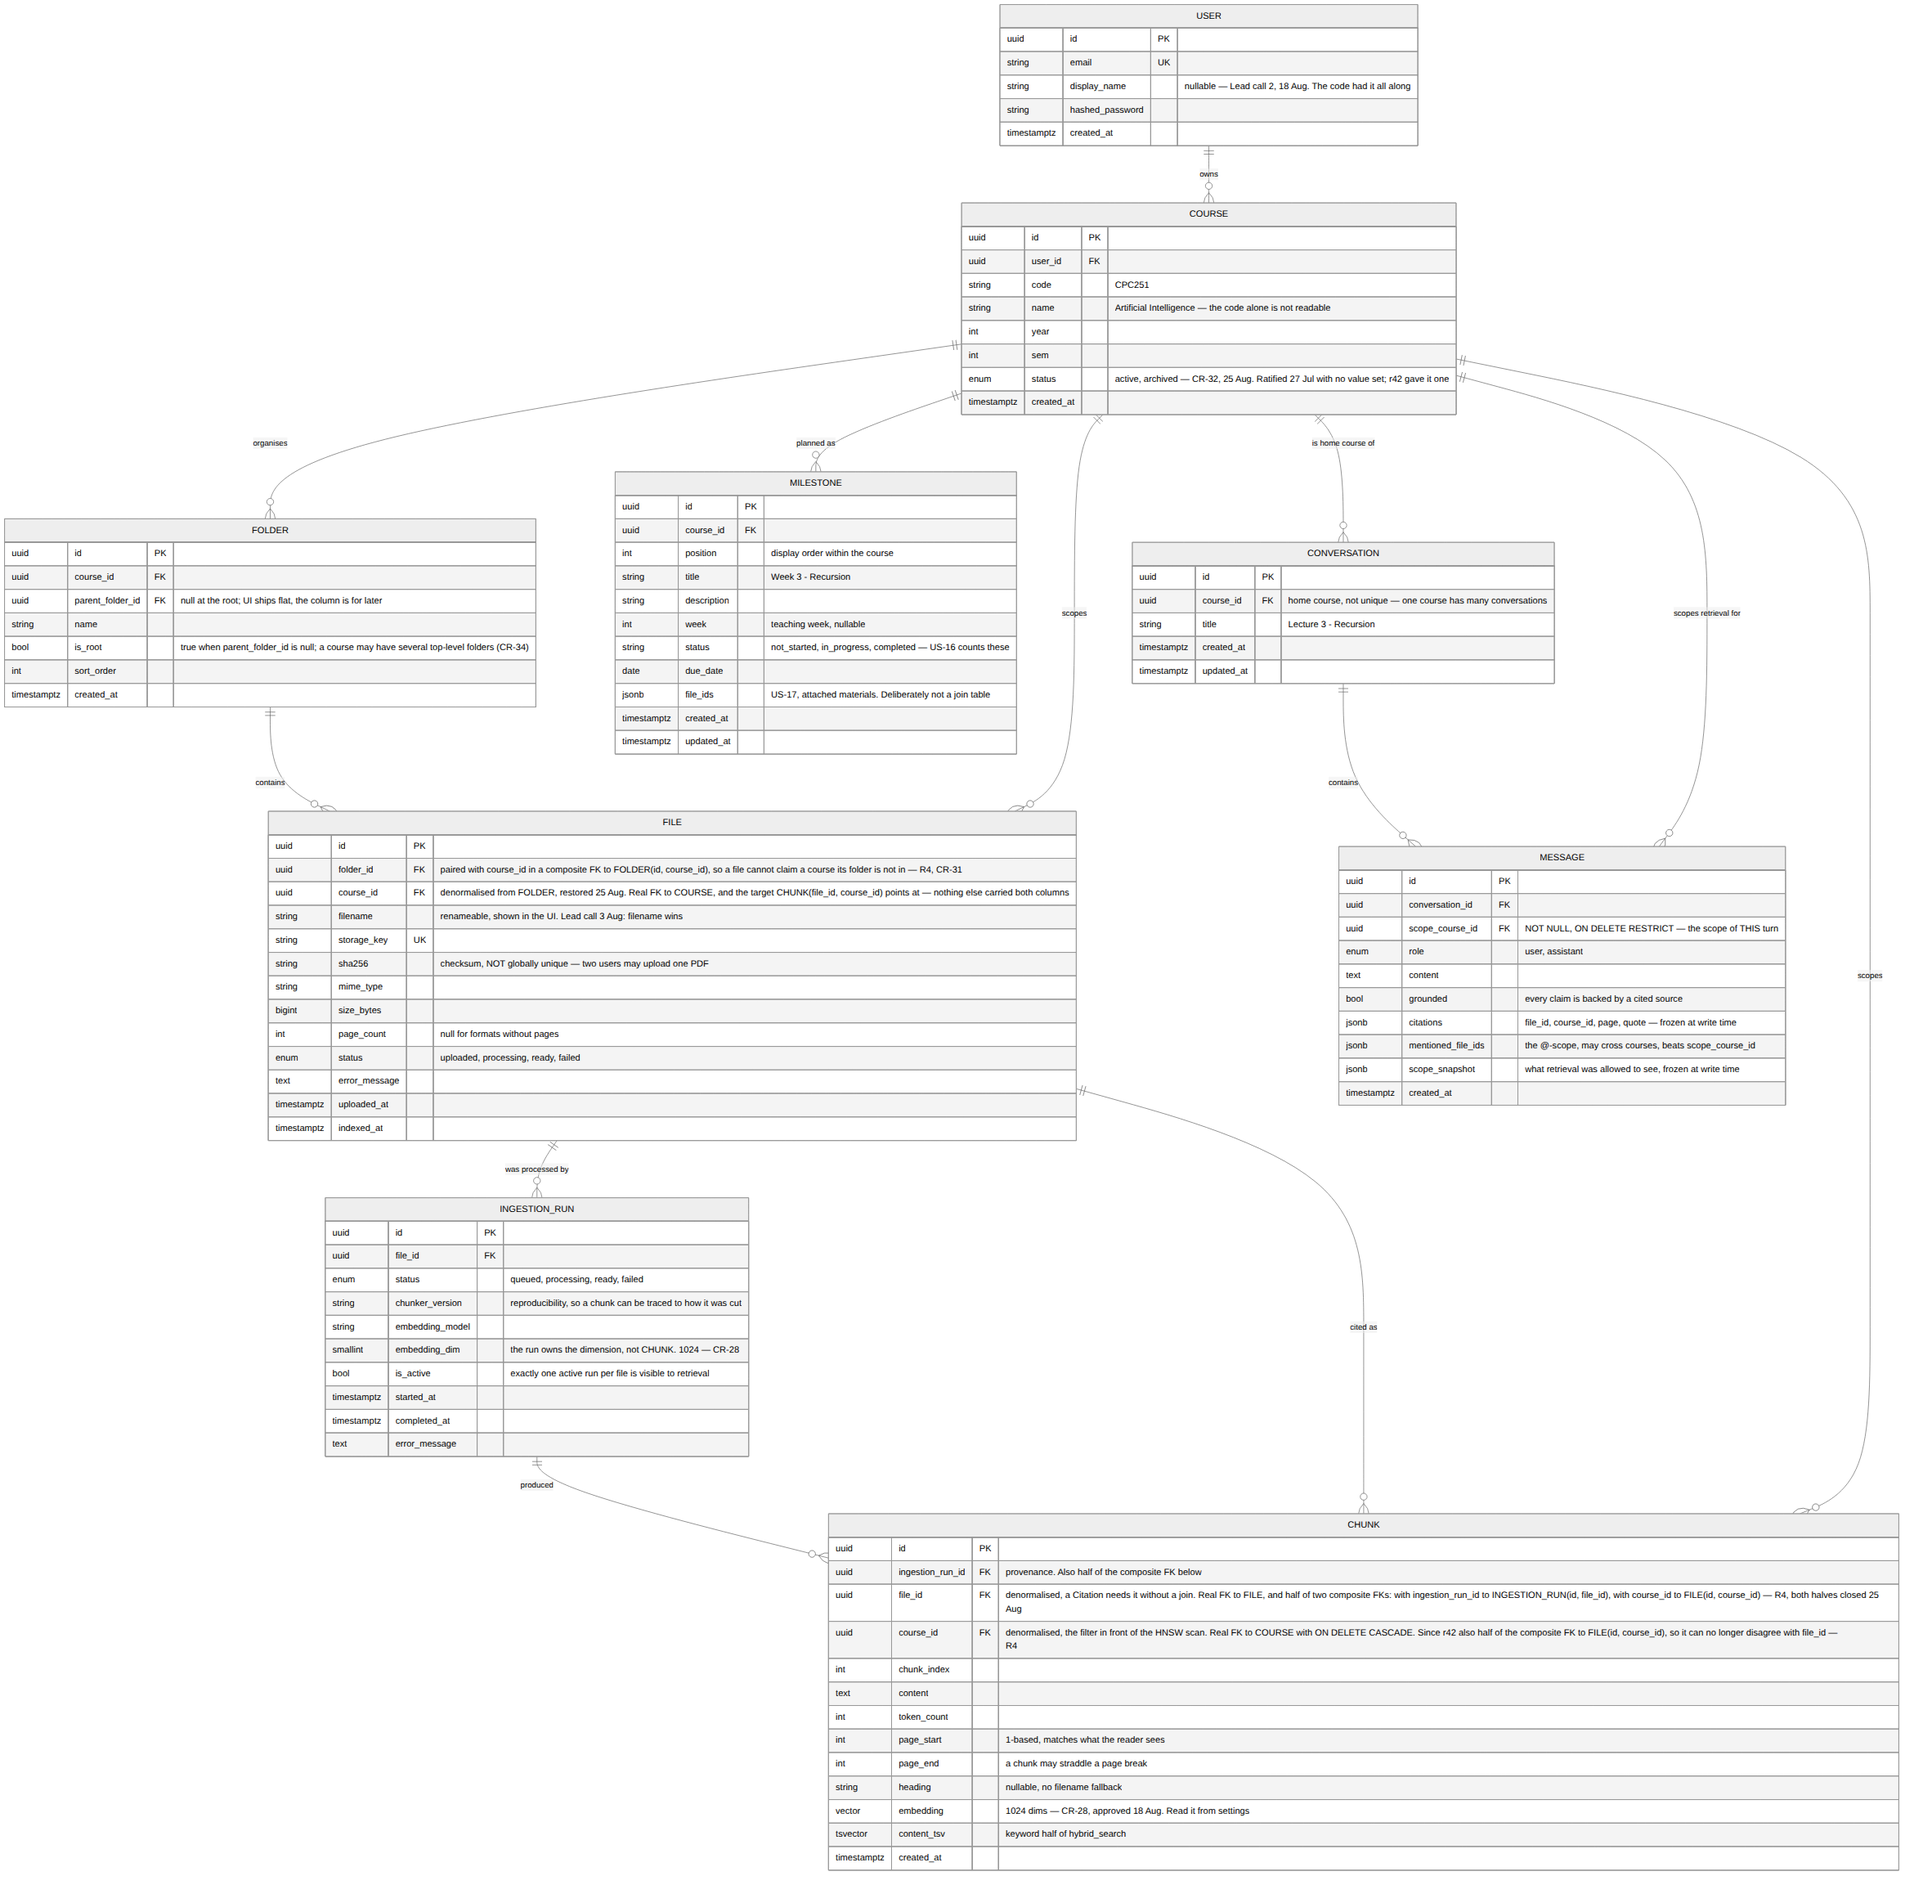
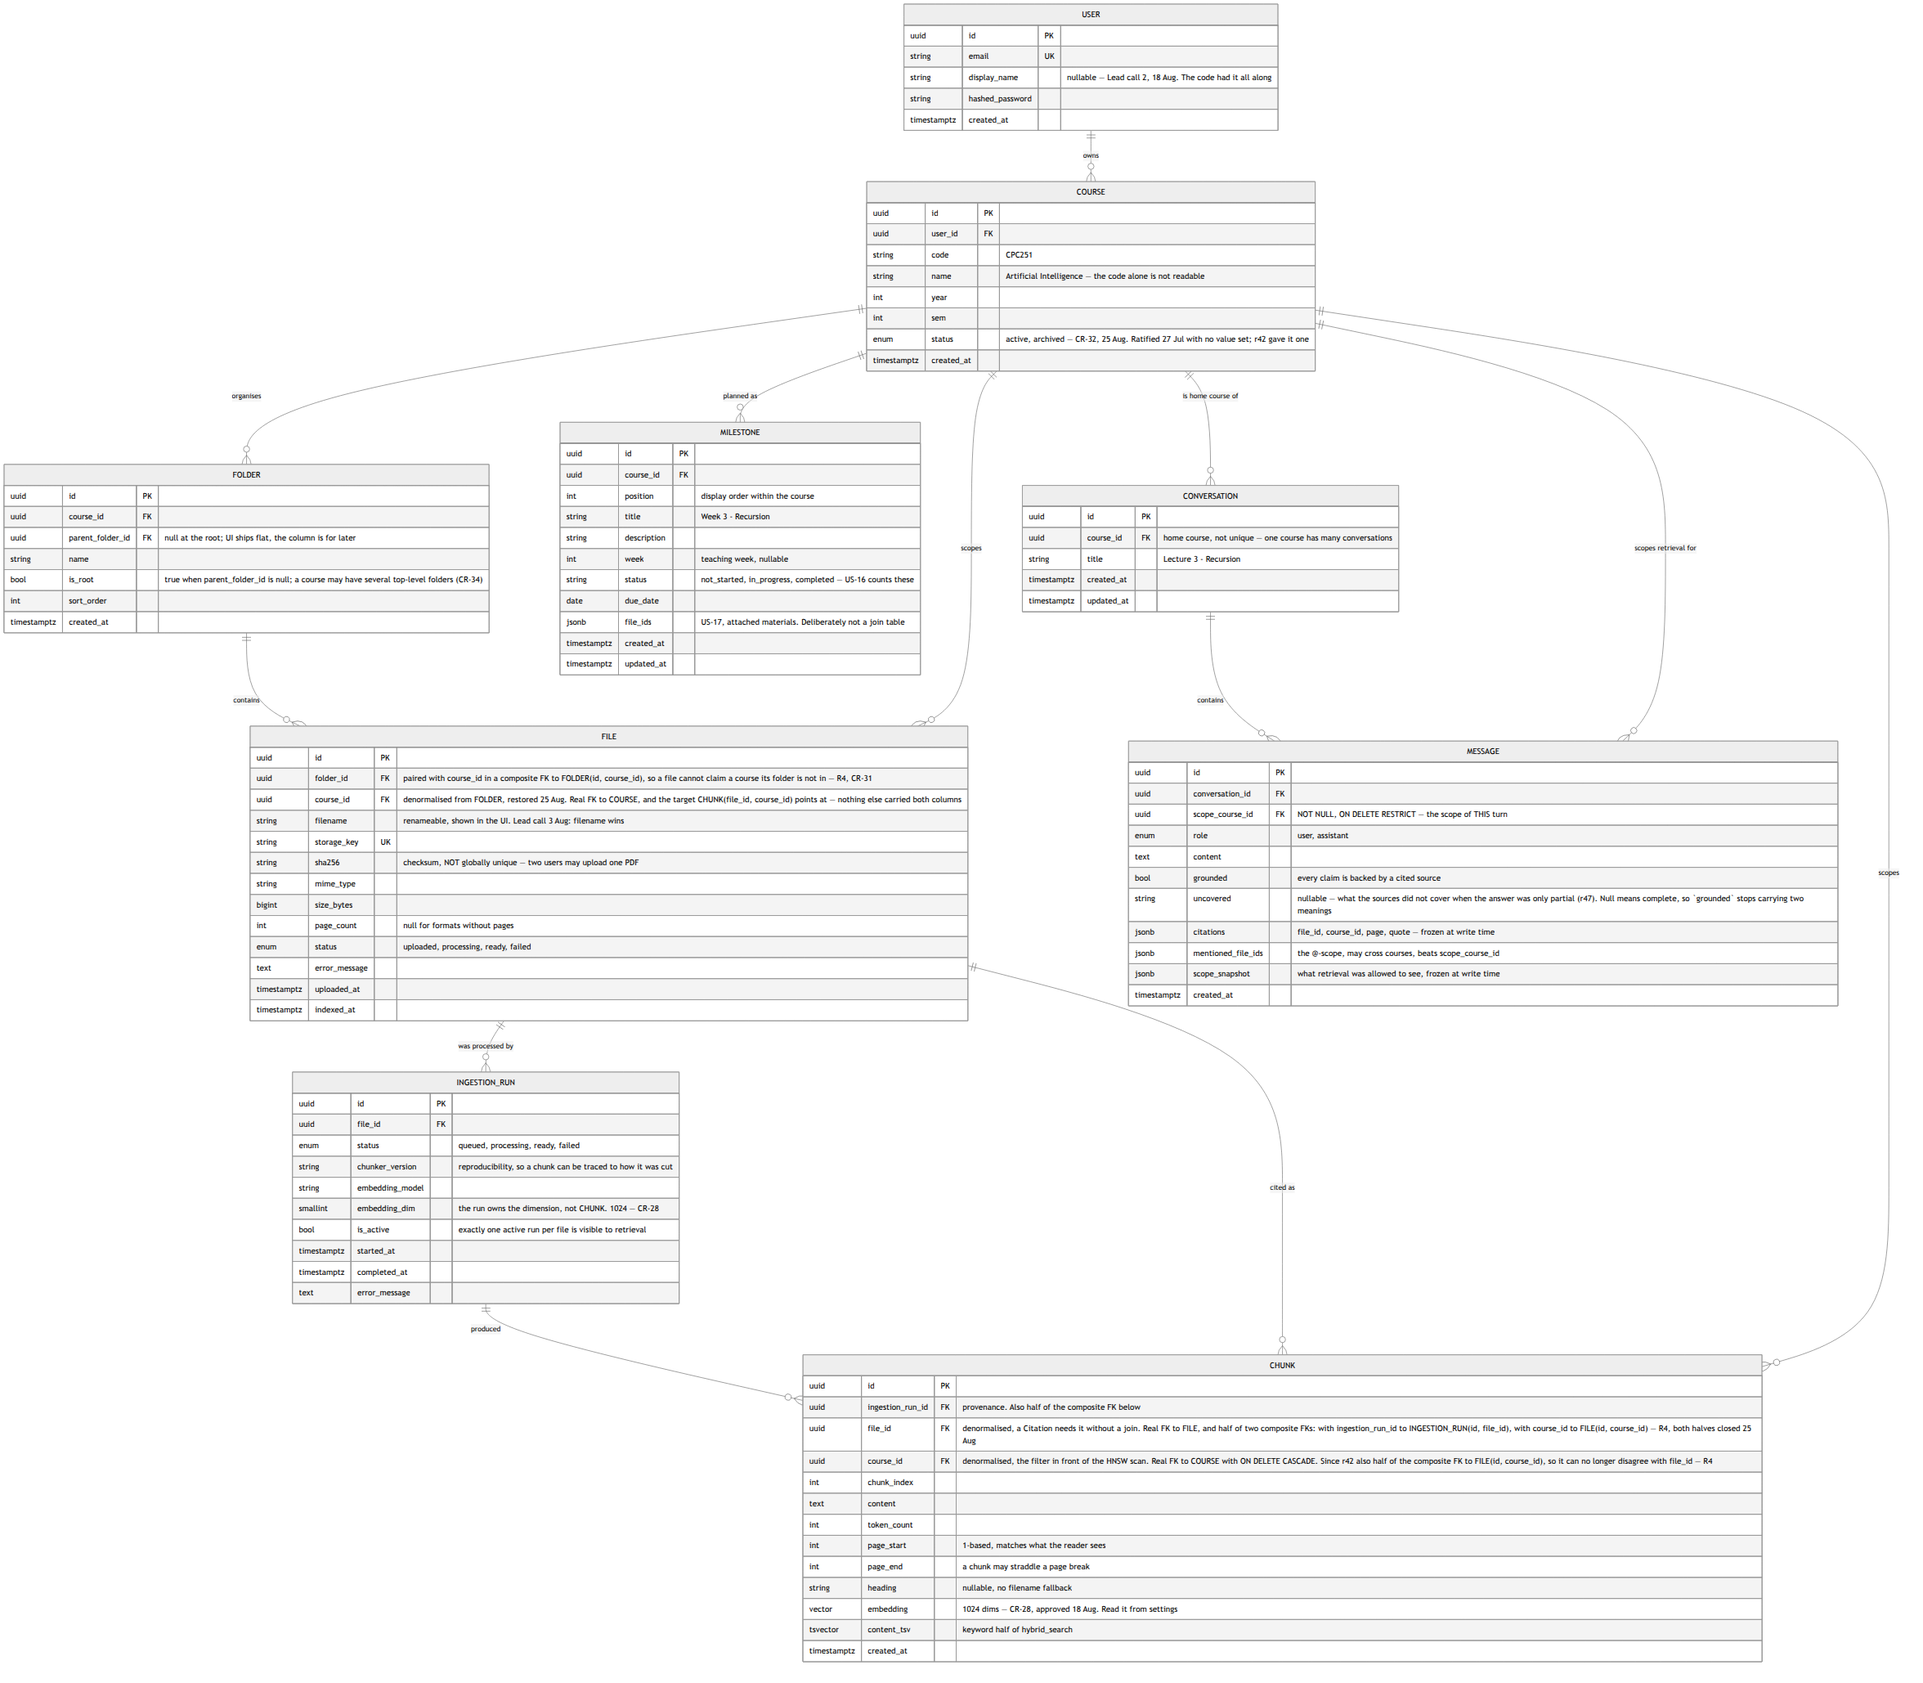
Regenerate erd.png for MESSAGE.uncovered
The diagram gained a field in 97ada92 and the PNG was still the 9 September
render. README says to regenerate after every edit; mermaid-cli was not
installed on this machine, which is most of why it had not been.

The new render is 258px SHORTER than the old one despite having one more row,
which looks like content went missing and did not: mermaid-cli 11.17.0 lays
the entities out differently from whatever produced the 9 Sep file. Verified
against an SVG render of the same source -- all nine entities present, and all
83 declared fields present by name, including uncovered.

README's stated dimensions were wrong before this too (2352 x 2466 against a
file that measured 2352 x 2316). Corrected, and the grep-the-SVG check is
written down there now, because the thing worth catching is a dropped entity
and a PNG cannot be grepped.

diff --git a/docs/erd/README.md b/docs/erd/README.md
@@ -45,8 +45,21 @@ npx mmdc -i docs/erd/erd.mmd -o docs/erd/erd.png -c cfg.json -p pp.json -b white
 { "args": ["--no-sandbox", "--disable-setuid-sandbox"] }
 ```
 
-Current output is 2352 × 2466, ~350 KB. If a render comes out several megabytes,
-`-s 3` has been raised — three is enough to read every annotation at 100%.
+Current output is 2352 × 2058, ~305 KB, from `@mermaid-js/mermaid-cli` 11.17.0.
+If a render comes out several megabytes, `-s 3` has been raised — three is enough
+to read every annotation at 100%.
+
+**Height moves between mermaid versions and that is not a defect.** The 13 Sep
+render is 258px shorter than the 9 Sep one despite gaining a field, because the
+layout engine changed underneath it. Check the content, not the dimensions:
+
+```bash
+npx mmdc -i docs/erd/erd.mmd -o /tmp/erd.svg -c cfg.json -p pp.json -b white
+grep -c uncovered /tmp/erd.svg          # every field name should appear once
+```
+
+An entity or a field silently dropped from the diagram is the failure worth
+catching, and a PNG cannot be grepped.
 
 ## Three traps, all hit for real
 
